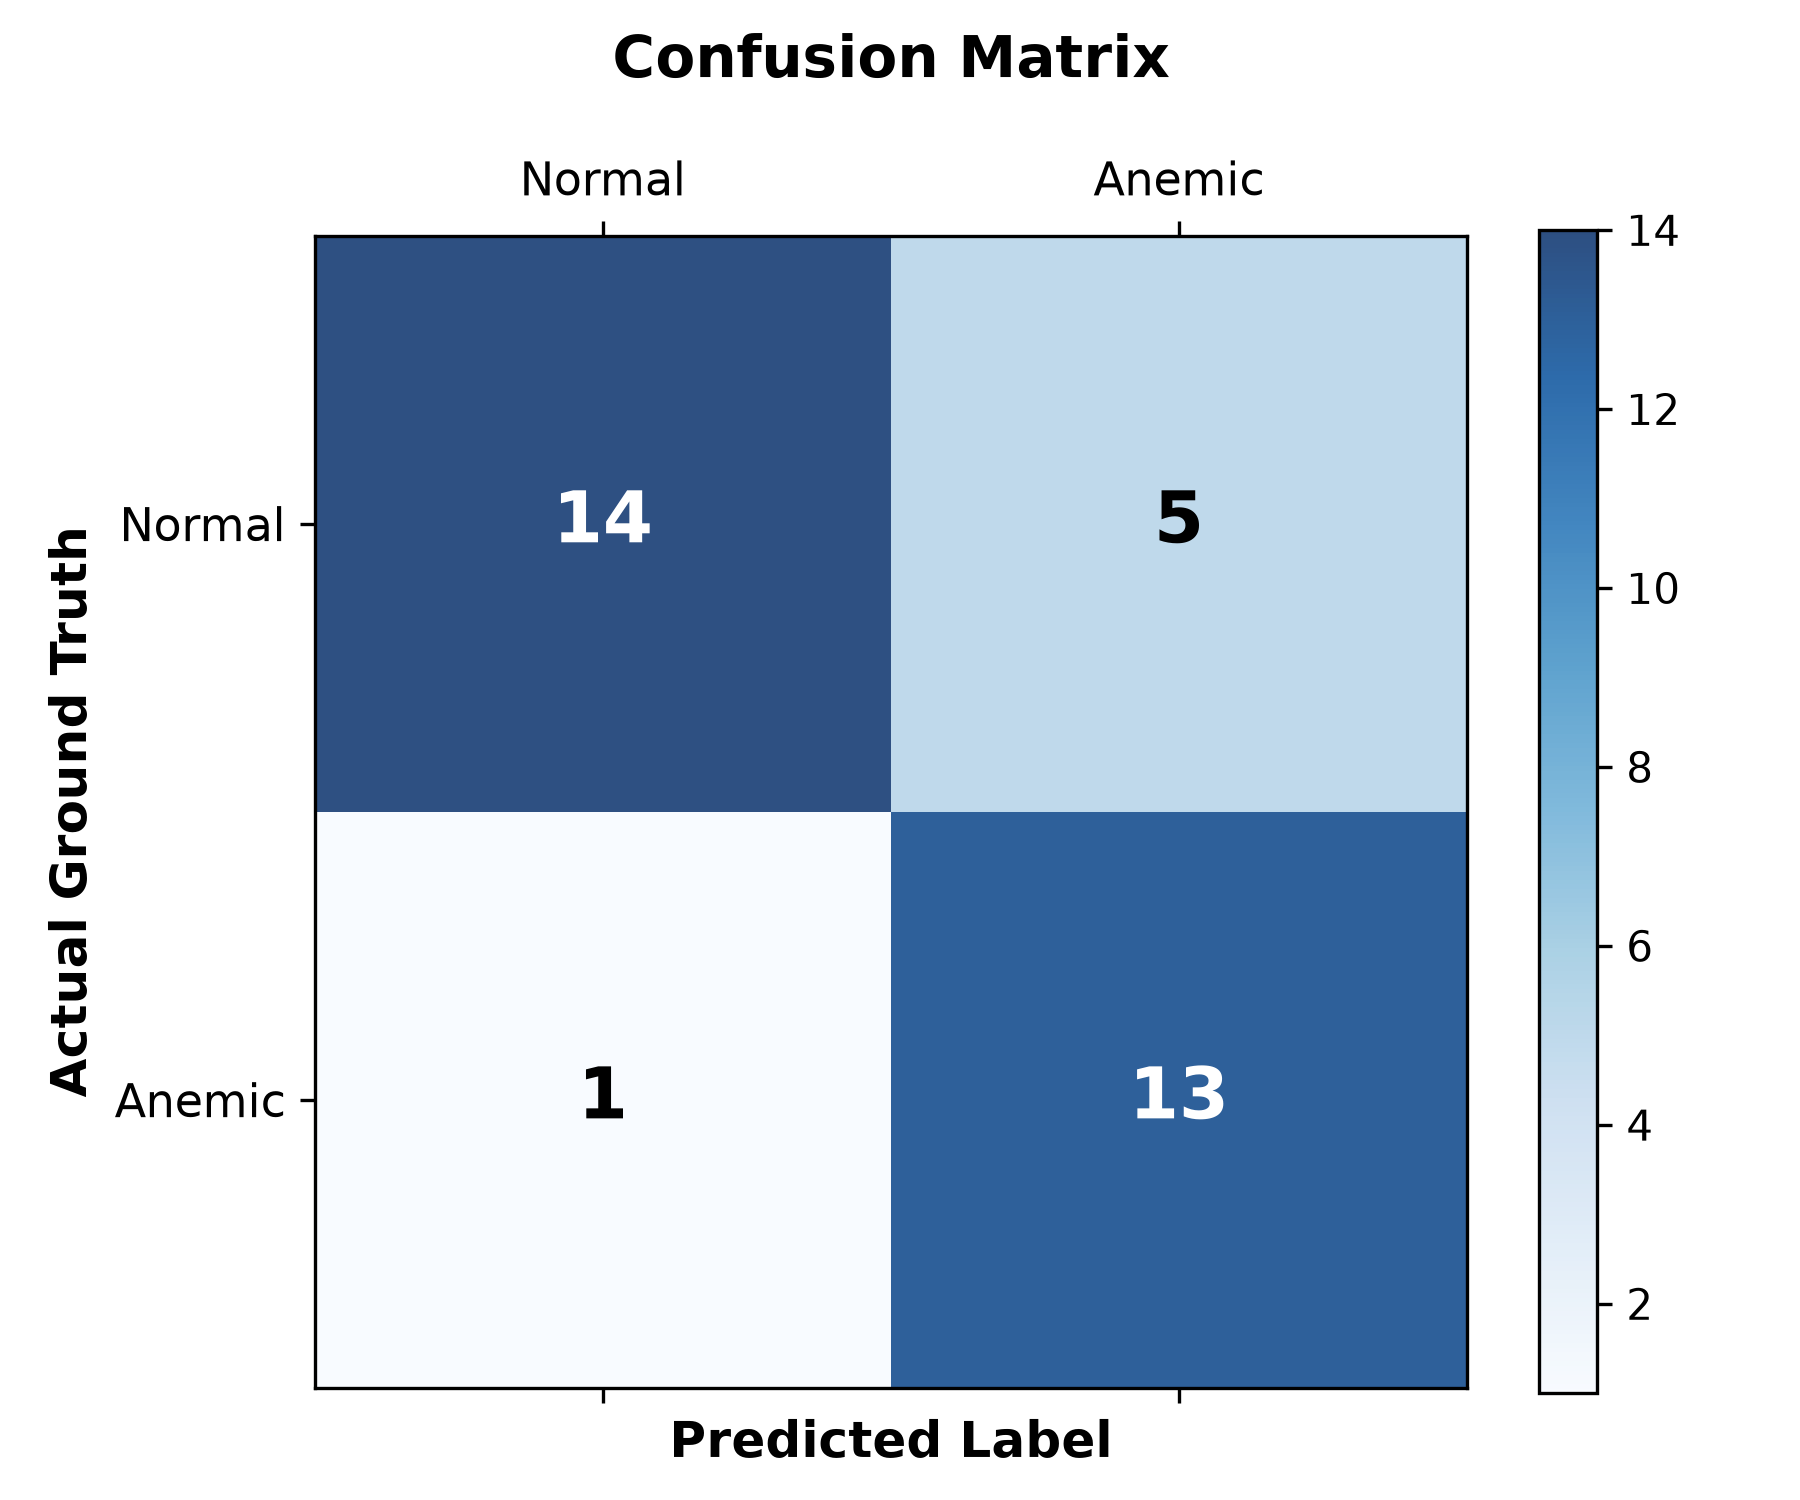
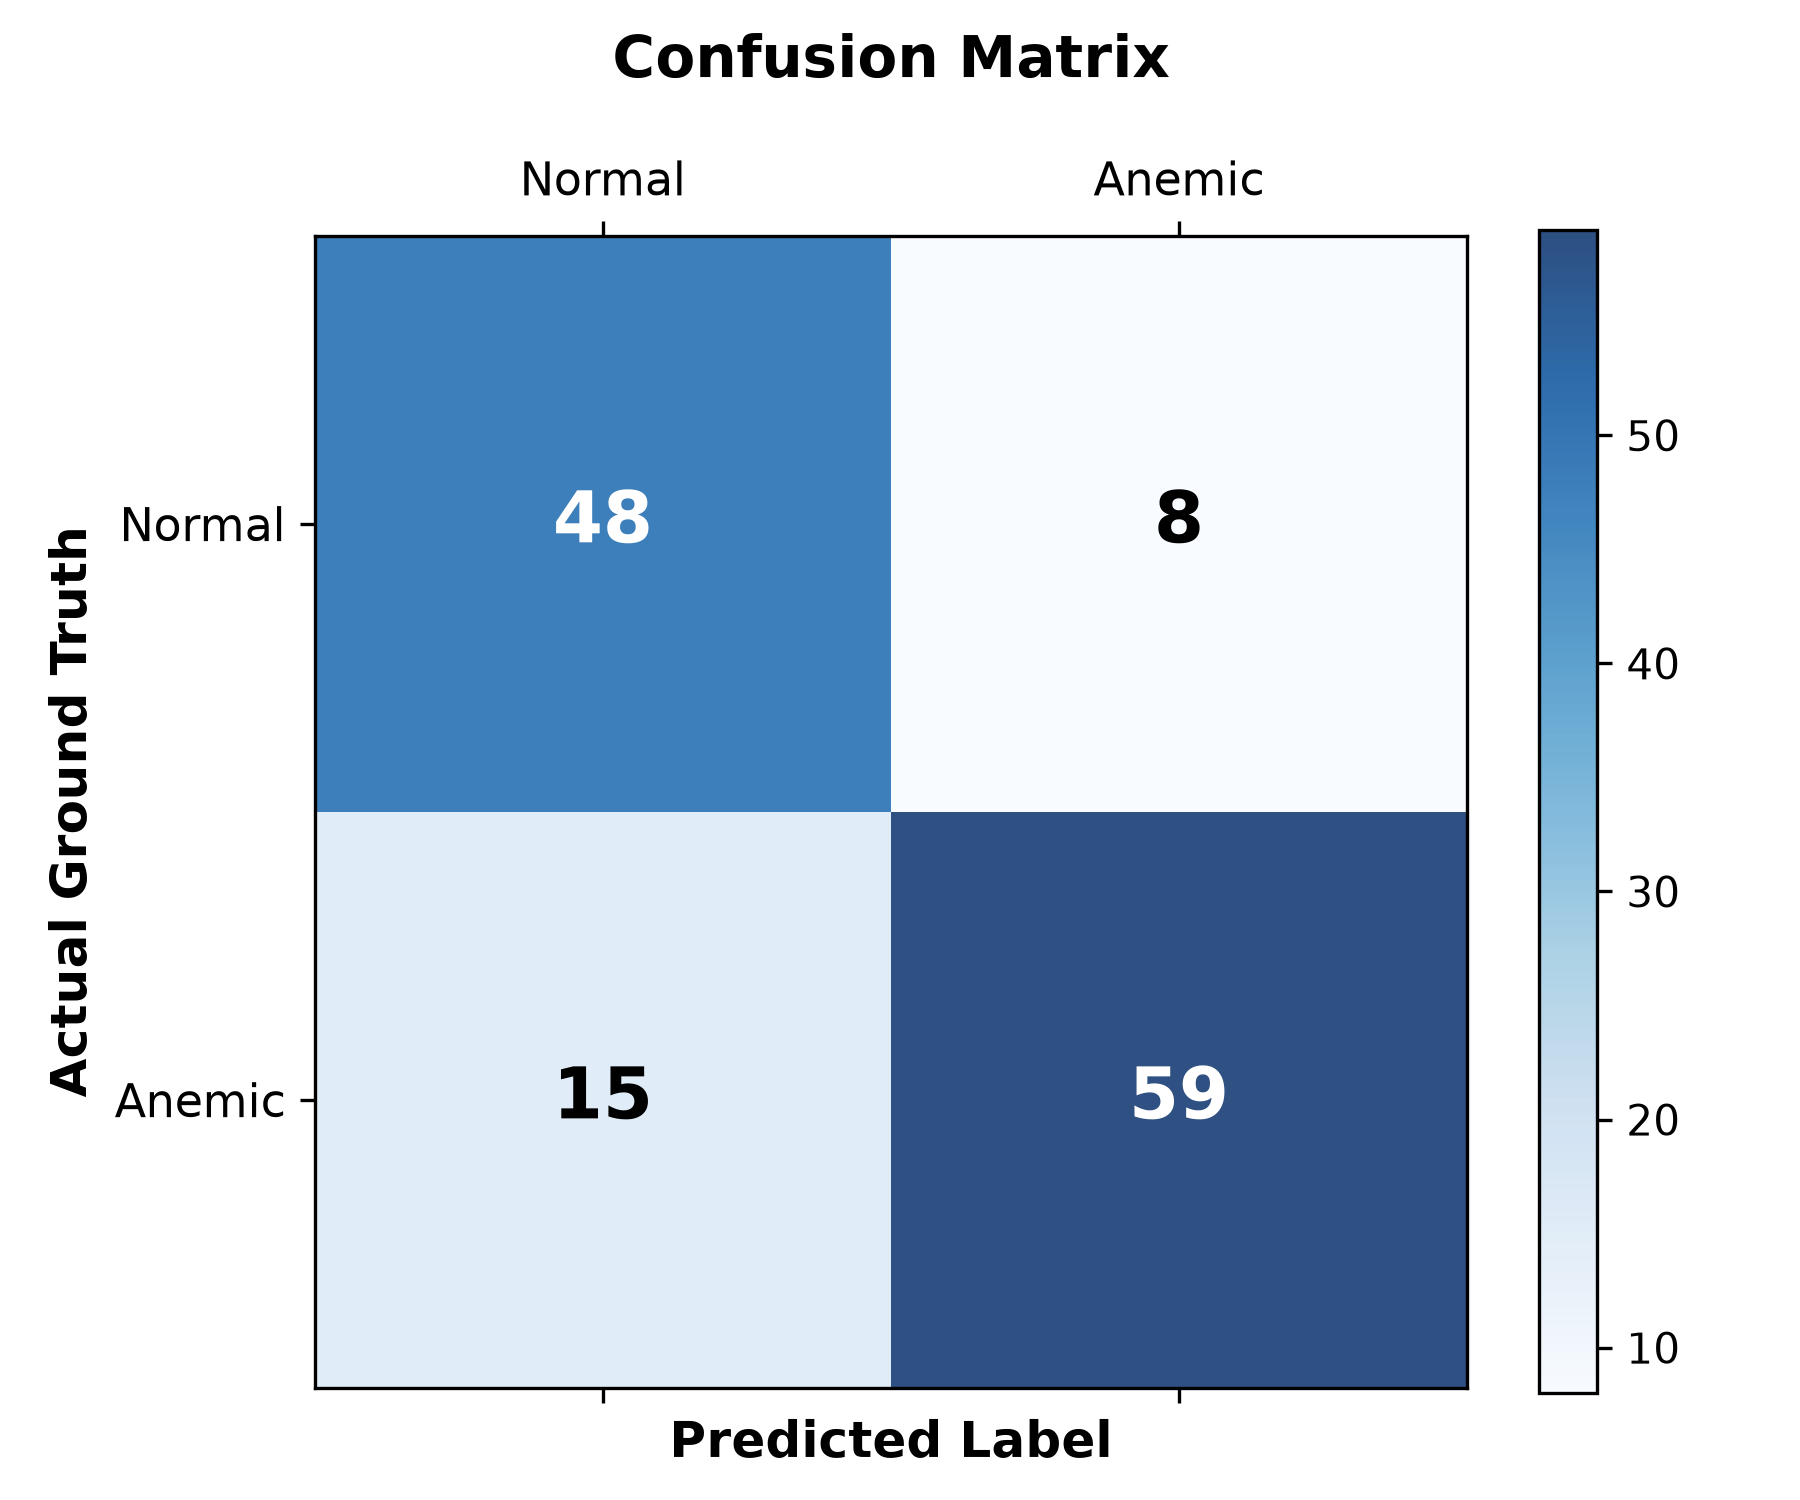
trainning konjungtiva mata

diff --git a/scripts/4_evaluate_models.py b/scripts/4_evaluate_models.py
@@ -28,6 +28,24 @@ from src.evaluation.gradcam import GradCAM
 from src.utils.visualization import plot_confusion_matrix, plot_roc_curve, plot_training_history
 from src.training.trainer import get_device
 
+
+def _run_inference(model, loader, device):
+    """Helper: jalankan forward pass di satu DataLoader, kembalikan (targets, preds, probs)."""
+    all_preds, all_targets, all_probs = [], [], []
+    with torch.no_grad():
+        for images, labels, _ in loader:
+            images = images.to(device)
+            logits = model(images)
+            probs = torch.softmax(logits, dim=1)
+            preds = torch.argmax(logits, dim=1)
+
+            all_probs.extend(probs.cpu().numpy())
+            all_preds.extend(preds.cpu().numpy())
+            all_targets.extend(labels.numpy())
+
+    return np.array(all_targets), np.array(all_preds), np.array(all_probs)
+
+
 def evaluate_modality(modality: str = "conjunctiva"):
     device = get_device()
     checkpoint_path = CHECKPOINTS_DIR / modality / "best_model.pth"
@@ -46,23 +64,7 @@ def evaluate_modality(modality: str = "conjunctiva"):
     test_ds = get_dataset(modality, split="test")
     test_loader = DataLoader(test_ds, batch_size=BATCH_SIZE, shuffle=False, num_workers=NUM_WORKERS)
 
-    all_preds, all_targets, all_probs, all_pids = [], [], [], []
-
-    with torch.no_grad():
-        for images, labels, pids in test_loader:
-            images = images.to(device)
-            logits = model(images)
-            probs = torch.softmax(logits, dim=1)
-            preds = torch.argmax(logits, dim=1)
-
-            all_probs.extend(probs.cpu().numpy())
-            all_preds.extend(preds.cpu().numpy())
-            all_targets.extend(labels.numpy())
-            all_pids.extend(pids)
-
-    all_targets = np.array(all_targets)
-    all_preds = np.array(all_preds)
-    all_probs = np.array(all_probs)
+    all_targets, all_preds, all_probs = _run_inference(model, test_loader, device)
 
     metrics = compute_classification_metrics(all_targets, all_preds, all_probs)
     print_metrics_table(metrics, title=f"TEST SET PERFORMANCE - {modality.upper()}")
@@ -96,6 +98,53 @@ def evaluate_modality(modality: str = "conjunctiva"):
         loss_curve_path = curves_dir / f"{modality}_training_curves.png"
         plot_training_history(str(history_csv), output_path=str(loss_curve_path))
 
+    # 2b. Cross-Domain External Evaluation
+    # Hanya berlaku untuk modality "conjunctiva" (dataset gabungan CP-AnemiC + Eyes-defy),
+    # karena split "crossdomain_external_test" (porsi Eyes-defy yang di-holdout, tidak pernah
+    # dilihat saat training) hanya dibuat untuk modality ini. Ini mengukur generalisasi
+    # lintas populasi (Ghana pediatrik -> Italia/India dewasa) -- kontribusi utama riset.
+    if modality == "conjunctiva":
+        print("\n" + "=" * 50)
+        print("Evaluating on CROSS-DOMAIN EXTERNAL TEST (held-out Eyes-defy-anemia)...")
+        print("=" * 50)
+
+        crossdomain_ds = get_dataset(modality, split="crossdomain_external_test")
+        crossdomain_loader = DataLoader(
+            crossdomain_ds, batch_size=BATCH_SIZE, shuffle=False, num_workers=NUM_WORKERS
+        )
+
+        cd_targets, cd_preds, cd_probs = _run_inference(model, crossdomain_loader, device)
+
+        crossdomain_metrics = compute_classification_metrics(cd_targets, cd_preds, cd_probs)
+        print_metrics_table(
+            crossdomain_metrics,
+            title=f"CROSS-DOMAIN EXTERNAL TEST - {modality.upper()} (held-out Eyes-defy-anemia)"
+        )
+
+        crossdomain_metrics_df = pd.DataFrame([crossdomain_metrics])
+        crossdomain_csv = TABLES_DIR / f"{modality}_crossdomain_metrics.csv"
+        crossdomain_metrics_df.to_csv(crossdomain_csv, index=False)
+        print(f"Saved cross-domain metrics to {crossdomain_csv}")
+
+        # Confusion matrix terpisah untuk cross-domain, supaya bisa dibandingkan
+        # visual dengan confusion matrix test set biasa.
+        cd_cm_path = cm_dir / f"{modality}_crossdomain_confusion_matrix.png"
+        plot_confusion_matrix(cd_targets, cd_preds, output_path=str(cd_cm_path))
+
+        cd_roc_path = curves_dir / f"{modality}_crossdomain_roc_curve.png"
+        plot_roc_curve(cd_targets, cd_probs, output_path=str(cd_roc_path))
+
+        # Ringkasan drop performa: test biasa vs cross-domain, memudahkan baca di paper.
+        print("\n--- Ringkasan Perbandingan: Test Set Biasa vs Cross-Domain ---")
+        comparison_df = pd.DataFrame([
+            {"evaluation": "internal_test", **metrics},
+            {"evaluation": "crossdomain_external_test", **crossdomain_metrics},
+        ])
+        comparison_csv = TABLES_DIR / f"{modality}_internal_vs_crossdomain.csv"
+        comparison_df.to_csv(comparison_csv, index=False)
+        print(comparison_df[["evaluation", "accuracy", "f1_score", "roc_auc", "sensitivity", "specificity"]])
+        print(f"Saved comparison table to {comparison_csv}")
+
     # 3. Explainability: Grad-CAM Visualization on Sample Test Images
     print(f"\nGenerating Grad-CAM visual heatmaps in {gradcam_dir}...")
     gradcam = GradCAM(model=model)
@@ -107,7 +156,7 @@ def evaluate_modality(modality: str = "conjunctiva"):
         row = test_ds.data.iloc[i]
         label_val = int(row["who_anemic"])
         actual_label = "Anemic" if label_val == 1 else "Normal"
-        
+
         # Determine image path
         if "palpebral_mask_path" in row and pd.notna(row["palpebral_mask_path"]):
             img_path = row["palpebral_mask_path"]
@@ -132,6 +181,7 @@ def evaluate_modality(modality: str = "conjunctiva"):
         overlay_img.save(save_path)
 
     print(f"Saved Grad-CAM overlays to {gradcam_dir}")
+
 
 def main():
     parser = argparse.ArgumentParser(description="Evaluate Trained Model and Generate Paper Artifacts")
